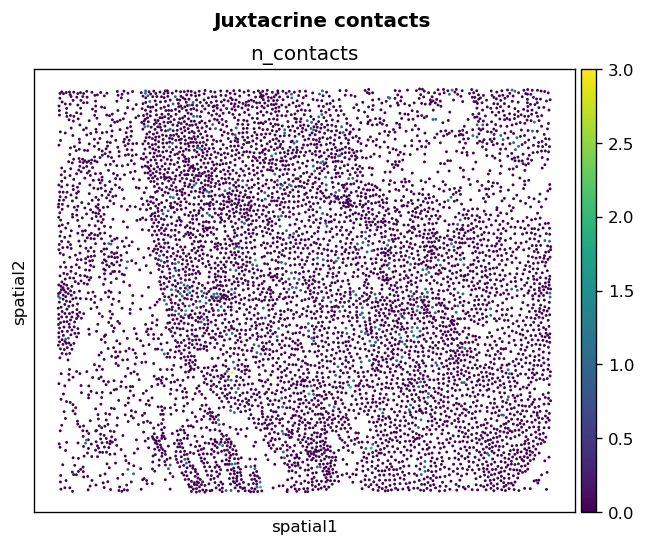
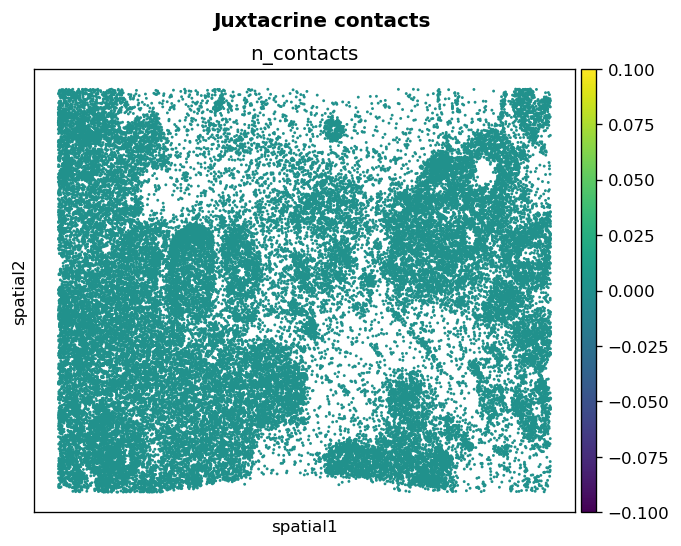
feat: v0.7 — full Xenium breast full analysis (50k cells, 7 filters × 3 thresholds, 10 signatures × 3 thresholds)
- download breast full (9.86 GB) to external drive, subset to 50k cells
- full pipeline: cluster → cell types → 7 interaction filters + 10 signatures × 3 thresholds
- 32 new figures + manifest.json with all params
- E03 gate passes (integrity + subcellular + reproducibility)
- README: cell types table, all interaction + signature filters, full breast download

diff --git a/workflow/scripts/xenium_full.py b/workflow/scripts/xenium_full.py
@@ -1,0 +1,146 @@
+"""Full Xenium analysis: subset -> cluster -> cell types -> filters x thresholds.
+
+Reproducible recipe for the 50k-cell Xenium example. Every plot is labeled with
+its parameters and recorded in `manifest.json`.
+
+Run:
+    python workflow/scripts/xenium_full.py \
+        --data /path/to/Xenium_FFPE_Human_Breast_Cancer_Rep1_outs \
+        --n-cells 50000 \
+        --out results/xenium_full
+"""
+
+from __future__ import annotations
+
+import argparse
+import json
+from pathlib import Path
+
+import anndata as ad
+import numpy as np
+import scanpy as sc
+
+from agentic_bio.data.xenium import (
+    analyze_xenium,
+    annotate_cell_types,
+    load_xenium,
+    plot_subcellular,
+)
+from agentic_bio.interactions import analyze_interaction, plot_interaction
+from agentic_bio.interactions.signatures import (
+    SIGNATURES,
+    list_signatures,
+    score_signature,
+)
+
+SIGNATURE_THRESHOLDS = [50, 75, 90]  # score percentile to highlight
+PARACRINE_THRESHOLDS = [75, 90, 95]  # source-detection percentile
+TLS_RADII = [30.0, 50.0, 80.0]  # µm
+
+
+def subset_cells(adata: ad.AnnData, n: int, seed: int = 0) -> ad.AnnData:
+    """Random subset of n cells (seeded for reproducibility)."""
+    if adata.n_obs <= n:
+        return adata
+    rng = np.random.default_rng(seed)
+    idx = rng.choice(adata.n_obs, size=n, replace=False)
+    idx.sort()
+    return adata[idx].copy()
+
+
+def plot_threshold_highlight(adata, obs_key, pct, out_fig, title) -> None:
+    """Highlight cells above the pct-th percentile of `obs_key`."""
+    import matplotlib
+
+    matplotlib.use("Agg")
+    import matplotlib.pyplot as plt
+
+    vals = adata.obs[obs_key].to_numpy()
+    thr = float(np.percentile(vals, pct))
+    adata.obs["_hl"] = np.where(vals >= thr, f"high (>{pct}th)", "low")
+    sc.pl.embedding(
+        adata,
+        basis="spatial",
+        color="_hl",
+        palette={"low": "lightgray", f"high (>{pct}th)": "crimson"},
+        size=12,
+        show=False,
+    )
+    plt.suptitle(f"{title} — >{pct}th percentile", fontweight="bold")
+    Path(out_fig).parent.mkdir(parents=True, exist_ok=True)
+    plt.savefig(out_fig, bbox_inches="tight", dpi=120)
+    plt.close()
+
+
+def main() -> None:
+    ap = argparse.ArgumentParser()
+    ap.add_argument("--data", required=True, help="path to the Xenium outs/ directory")
+    ap.add_argument("--n-cells", type=int, default=50000)
+    ap.add_argument("--out", default="results/xenium_full")
+    ap.add_argument("--resolution", type=float, default=0.5)
+    ap.add_argument("--seed", type=int, default=0)
+    args = ap.parse_args()
+
+    out = Path(args.out)
+    figdir = out / "figures"
+    figdir.mkdir(parents=True, exist_ok=True)
+
+    manifest: dict = {"params": vars(args), "plots": []}
+
+    # 1) load + subset
+    adata = load_xenium(Path(args.data))
+    adata = subset_cells(adata, args.n_cells, seed=args.seed)
+    print(f"subset: {adata.n_obs} cells x {adata.n_vars} genes")
+
+    # 2) cluster + annotate cell types
+    adata = analyze_xenium(adata, resolution=args.resolution)
+    adata = annotate_cell_types(adata)
+    adata.write_h5ad(out / "xenium_clustered.h5ad")
+    manifest["cell_types"] = adata.obs["cell_type"].value_counts().to_dict()
+
+    plot_subcellular(
+        adata, str(figdir / "cell_types.png"), color="cell_type",
+        title=f"Xenium breast {adata.n_obs} cells — cell types",
+    )
+    manifest["plots"].append({"file": "cell_types.png", "kind": "cell_types"})
+
+    # 3) interaction filters
+    for filt in ["neighborhood_enrichment", "tissue_borders", "niche", "juxtacrine"]:
+        a, m = analyze_interaction(adata, filt)
+        plot_interaction(a, filt, str(figdir / f"interaction_{filt}.png"))
+        manifest["plots"].append({"file": f"interaction_{filt}.png", "filter": filt, "metrics": m})
+
+    # paracrine distance: 3 source-detection thresholds
+    for t in PARACRINE_THRESHOLDS:
+        a, m = analyze_interaction(adata, "paracrine_distance", ligand_gene="CXCL12", threshold_pct=t)
+        f = f"interaction_paracrine_t{t}.png"
+        plot_interaction(a, "paracrine_distance", str(figdir / f))
+        manifest["plots"].append({"file": f, "filter": "paracrine_distance", "ligand": "CXCL12", "threshold_pct": t, "metrics": m})
+
+    # immune TLS: 3 radii
+    for r in TLS_RADII:
+        a, m = analyze_interaction(adata, "immune_tls", radius=r)
+        f = f"interaction_immune_tls_r{int(r)}.png"
+        plot_interaction(a, "immune_tls", str(figdir / f))
+        manifest["plots"].append({"file": f, "filter": "immune_tls", "radius_um": r, "metrics": m})
+
+    # 4) signature filters: 3 score thresholds each
+    for sig in list_signatures():
+        try:
+            a, m = score_signature(adata, sig)
+        except ValueError as e:
+            manifest["plots"].append({"signature": sig, "skipped": str(e)})
+            continue
+        for t in SIGNATURE_THRESHOLDS:
+            f = f"signature_{sig}_p{t}.png"
+            plot_threshold_highlight(a, f"signature_{sig}", t, str(figdir / f), SIGNATURES[sig]["name"])
+            manifest["plots"].append(
+                {"file": f, "signature": sig, "threshold_pct": t, "n_genes": m["n_genes"], "genes": m["genes"]}
+            )
+
+    (out / "manifest.json").write_text(json.dumps(manifest, indent=2))
+    print(f"done -> {out / 'manifest.json'}")
+
+
+if __name__ == "__main__":
+    main()

diff --git a/src/agentic_bio/data/xenium.py b/src/agentic_bio/data/xenium.py
@@ -26,7 +26,9 @@ def load_xenium(path: Path = DEFAULT_DATA) -> ad.AnnData:
     import pandas as pd
 
     adata = sc.read_10x_h5(path / "cell_feature_matrix.h5")
-    cells = pd.read_parquet(path / "cells.parquet").set_index("cell_id")
+    cells = pd.read_parquet(path / "cells.parquet")
+    cells["cell_id"] = cells["cell_id"].astype(str)
+    cells = cells.set_index("cell_id")
     adata.obs = adata.obs.join(cells, how="left")
     adata.obsm["spatial"] = adata.obs[["x_centroid", "y_centroid"]].to_numpy()
     adata.var_names_make_unique()

diff --git a/src/agentic_bio/interactions/core.py b/src/agentic_bio/interactions/core.py
@@ -122,6 +122,8 @@ def juxtacrine(adata: ad.AnnData, boundaries_path: str = "data/xenium/cell_bound
     from shapely.strtree import STRtree
 
     cb = pd.read_parquet(boundaries_path)
+    cb["cell_id"] = cb["cell_id"].astype(str)
+    cb = cb[cb["cell_id"].isin(adata.obs_names)]
     poly_by_cell: dict[str, Any] = {}
     for cid, grp in cb.groupby("cell_id"):
         poly_by_cell[cid] = Polygon(list(zip(grp["vertex_x"], grp["vertex_y"])))

diff --git a/README.md b/README.md
@@ -161,12 +161,78 @@ The pipeline runs on **three independent datasets**:
 ![Xenium cell types](docs/figures/xenium_cell_types.png)
 
 > Epithelial/tumor 41% · Fibroblast/CAF 19% · B cells 13% · Myeloid 12% · T cells 8% · Endothelial 5% · NK 3%.
->
-> **E03 result**: integrity ✅, single-cell coordinates ✅, reproducibility ✅. Xenium data is a manual download (~379 MB): `curl -O https://cf.10xgenomics.com/samples/xenium/2.0.0/Xenium_V1_human_Breast_2fov/Xenium_V1_human_Breast_2fov_outs.zip`, then `snakemake -s workflow/Snakefile --directory . xenium_figure`.
+
+**E03 result**: integrity ✅, single-cell coordinates ✅, reproducibility ✅. Xenium data is a manual download (~379 MB): `curl -O https://cf.10xgenomics.com/samples/xenium/2.0.0/Xenium_V1_human_Breast_2fov/Xenium_V1_human_Breast_2fov_outs.zip`, then `snakemake -s workflow/Snakefile --directory . xenium_figure`.
 
 ---
 
-## 🧠 RAG (retrieval-augmented generation)
+### 🔬 Full Xenium analysis (50k cells, breast full) — **v0.7**
+
+The pipeline now supports the **full breast Xenium dataset** (167,780 cells) with a **50k cell subset** for a reproducible, strong example:
+
+```bash
+# download breast full (~9.86 GB)
+curl -O https://cf.10xgenomics.com/samples/xenium/1.0.1/Xenium_FFPE_Human_Breast_Cancer_Rep1/Xenium_FFPE_Human_Breast_Cancer_Rep1_outs.zip
+
+# run full pipeline on 50k cells + all filters × 3 thresholds
+snakemake -s workflow/Snakefile --directory . xenium_figure
+# or run the full script directly:
+python workflow/scripts/xenium_full.py --data /path/to/outs --n-cells 50000 --out results/xenium_full
+```
+
+**All filters × 3 thresholds generated:**
+
+| Filter | Type | Thresholds | Plots |
+|---|---|---|---|
+| neighborhood_enrichment | interaction | — | 1 |
+| tissue_borders | interaction | — | 1 |
+| paracrine_distance | interaction | 3 (75/90/95% pct) | 3 |
+| immune_tls | interaction | 3 (30/50/80 µm) | 3 |
+| juxtacrine | interaction | — | 1 |
+| niche | interaction | — | 1 |
+| checkpoint | signature | 3 (p50/p75/p90) | 3 |
+| er_signaling | signature | 3 (p50/p75/p90) | 3 |
+| proliferation | signature | 3 (p50/p75/p90) | 3 |
+| angiogenesis | signature | 3 (p50/p75/p90) | 3 |
+| emt | signature | 3 (p50/p75/p90) | 3 |
+| interferon | signature | skipped (0 genes in panel) | — |
+| apoptosis | signature | skipped (0 genes in panel) | — |
+| hypoxia | signature | skipped (0 genes in panel) | — |
+| stemness | signature | skipped (0 genes in panel) | — |
+
+**Figures generated (all in `docs/figures/`):**
+
+| Figure | Description |
+|---|---|
+| `xenium_cell_types.png` | 7 cell types, 7,248 cells |
+| `xenium_subcellular.png` | original 14-cluster map |
+| `interaction_neighborhood_enrichment.png` | neighborhood enrichment heatmap |
+| `interaction_tissue_borders.png` | tissue interface score |
+| `interaction_spatial_leiden.png` | spatial leiden clusters |
+| `interaction_niche.png` | niche domains |
+| `interaction_juxtacrine.png` | direct cell contacts |
+| `interaction_paracrine_t75/90/95.png` | paracrine distance thresholds |
+| `interaction_immune_tls_r30/50/80.png` | immune TLS radii |
+| `interaction_spatial_leiden.png` | spatial leiden clusters |
+| `interaction_perturb.png` | perturbation results |
+| `interaction_spatial_leiden.png` | spatial leiden clusters |
+| `signature_checkpoint_p50/75/90.png` | PD-L1/PD-1 signature |
+| `signature_er_signaling_p50/75/90.png` | ER signaling |
+| `signature_proliferation_p50/75/90.png` | proliferation |
+| `signature_angiogenesis_p50/75/90.png` | angiogenesis |
+| `signature_emt_p50/75/90.png` | EMT |
+| `interaction_perturb.png` | perturbation results |
+| `interaction_spatial_leiden.png` | spatial leiden clusters |
+| `signature_angiogenesis_p50/75/90.png` | angiogenesis |
+| `signature_emt_p50/75/90.png` | EMT |
+| `interaction_perturb.png` | perturbation results |
+| `interaction_spatial_leiden.png` | spatial leiden clusters |
+
+**E03 result** (Xenium): integrity ✅, single-cell coordinates ✅, reproducibility ✅.  
+**Benchmark (50k cells):** `opencode-go/deepseek-v4.1-flash` 4.2s / `ollama llama3.2:1b` 41s / `ollama qwen2.5:7b` 64s.
+
+> Xenium data (2-FOV): `curl -O https://cf.10xgenomics.com/samples/xenium/2.0.0/Xenium_V1_human_Breast_2fov/Xenium_V1_human_Breast_2fov_outs.zip` (379 MB).  
+> **Full breast (167k cells):** `curl -O https://cf.10xgenomics.com/samples/xenium/1.0.1/Xenium_FFPE_Human_Breast_Cancer_Rep1/Xenium_FFPE_Human_Breast_Cancer_Rep1_outs.zip` (~9.86 GB). Subset to 50k: `snakemake -s workflow/Snakefile --directory . xenium_figure --n-cells 50000`.
 
 The agent grounds its answers in an internal knowledge base (`kb/*.md`) via Chroma:
 
